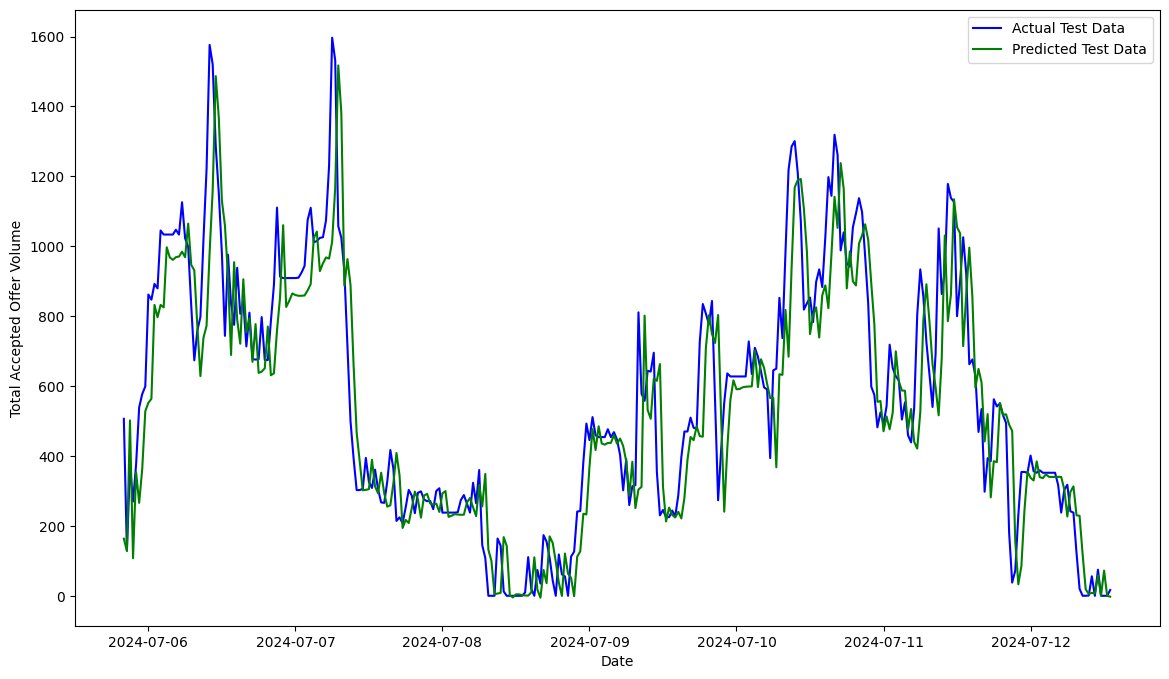
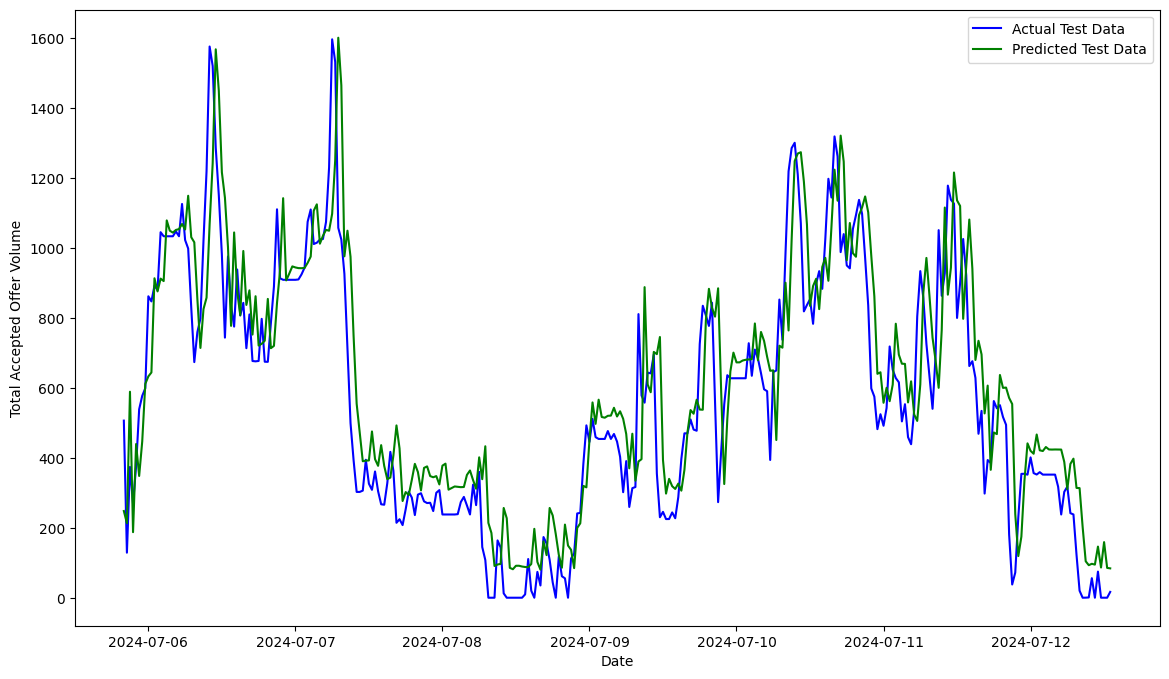
project and model improvements

diff --git a/ML/ImbalancePricing/src/models/LSTM_price.py b/ML/ImbalancePricing/src/models/LSTM_price.py
@@ -7,33 +7,6 @@ from tensorflow.keras.models import Sequential
 from tensorflow.keras.layers import LSTM, Dense, Dropout
 from sklearn.metrics import mean_squared_error, mean_absolute_error, r2_score
 
-train_1_df = pd.read_csv("ML\\ImbalancePricing\\data\\test\\test_1.csv")
-train_1_df['SettlementDate'] = pd.to_datetime(train_1_df['SettlementDate'])
-train_1_df['StartTime'] = pd.to_datetime(train_1_df['StartTime'])
-fig, axs = plt.subplots(3, 1, figsize=(15, 15), sharex=True)
-
-axs[0].plot(train_1_df['StartTime'], train_1_df['SystemSellPrice'], label='System Sell Price', color='red')
-axs[0].plot(train_1_df['StartTime'], train_1_df['SystemBuyPrice'], label='System Buy Price', color='blue')
-axs[0].set_title('System Sell and Buy Prices Over Time (Train 1)')
-axs[0].set_ylabel('£/MWh')
-axs[0].legend()
-
-axs[1].plot(train_1_df['StartTime'], train_1_df['NetImbalanceVolume'], label='Net Imbalance Volume', color='green')
-axs[1].set_title('Net Imbalance Volume Over Time (Train 1)')
-axs[1].set_ylabel('MWh')
-axs[1].legend()
-
-axs[2].plot(train_1_df['StartTime'], train_1_df['TotalAcceptedOfferVolume'], label='Total Accepted Offer Volume', color='purple')
-axs[2].plot(train_1_df['StartTime'], train_1_df['TotalAcceptedBidVolume'], label='Total Accepted Bid Volume', color='orange')
-axs[2].set_title('Total Accepted Offer and Bid Volumes Over Time (Train 1)')
-axs[2].set_ylabel('MWh')
-axs[2].legend()
-
-axs[2].set_xlabel('Time')
-
-plt.xticks(rotation=45)
-plt.show()
-
 def load_and_preprocess_data(file_path):
     data = pd.read_csv(file_path)
     data.fillna(method='ffill', inplace=True)

diff --git a/ML/ImbalancePricing/src/analysis/analysis.py b/ML/ImbalancePricing/src/analysis/analysis.py
@@ -1,0 +1,29 @@
+import pandas as pd
+import matplotlib.pyplot as plt
+
+train_1_df = pd.read_csv("ML\\ImbalancePricing\\data\\test\\test_1.csv")
+train_1_df['SettlementDate'] = pd.to_datetime(train_1_df['SettlementDate'])
+train_1_df['StartTime'] = pd.to_datetime(train_1_df['StartTime'])
+fig, axs = plt.subplots(3, 1, figsize=(15, 15), sharex=True)
+
+axs[0].plot(train_1_df['StartTime'], train_1_df['SystemSellPrice'], label='System Sell Price', color='red')
+axs[0].plot(train_1_df['StartTime'], train_1_df['SystemBuyPrice'], label='System Buy Price', color='blue')
+axs[0].set_title('System Sell and Buy Prices Over Time (Train 1)')
+axs[0].set_ylabel('£/MWh')
+axs[0].legend()
+
+axs[1].plot(train_1_df['StartTime'], train_1_df['NetImbalanceVolume'], label='Net Imbalance Volume', color='green')
+axs[1].set_title('Net Imbalance Volume Over Time (Train 1)')
+axs[1].set_ylabel('MWh')
+axs[1].legend()
+
+axs[2].plot(train_1_df['StartTime'], train_1_df['TotalAcceptedOfferVolume'], label='Total Accepted Offer Volume', color='purple')
+axs[2].plot(train_1_df['StartTime'], train_1_df['TotalAcceptedBidVolume'], label='Total Accepted Bid Volume', color='orange')
+axs[2].set_title('Total Accepted Offer and Bid Volumes Over Time (Train 1)')
+axs[2].set_ylabel('MWh')
+axs[2].legend()
+
+axs[2].set_xlabel('Time')
+
+plt.xticks(rotation=45)
+plt.show()

diff --git a/ML/ImbalancePricing/src/processing/processing.py b/ML/ImbalancePricing/src/processing/processing.py
@@ -1,0 +1,15 @@
+import pandas as pd
+
+train_test_files = [
+    'ML\\ImbalancePricing\\data\\train\\train_1.csv',
+    'ML\\ImbalancePricing\\data\\train\\train_2.csv',
+    'ML\\ImbalancePricing\\data\\train\\train_3.csv',
+    'ML\\ImbalancePricing\\data\\train\\train_4.csv',
+    'ML\\ImbalancePricing\\data\\train\\train_5.csv',
+    'ML\\ImbalancePricing\\data\\test\\test_1.csv'
+]
+
+test_1 = train_test_files[5]
+test_1_df = pd.read_csv(test_1)
+
+print(test_1_df.head())

diff --git a/ML/ImbalancePricing/src/models/LSTM_net_imbalance_volume.py b/ML/ImbalancePricing/src/models/LSTM_net_imbalance_volume.py
@@ -60,6 +60,7 @@ lstm_model.add(Dense(units=1))
 
 lstm_model.compile(optimizer='adam', loss='mean_squared_error')
 lstm_model.fit(X, y, batch_size=32, epochs=50)
+
 test_scaled_data = scaler.transform(test_niv_data)
 X_test, y_test = create_dataset(test_scaled_data, time_step)
 X_test = X_test.reshape(X_test.shape[0], X_test.shape[1], 1)

diff --git a/ML/ImbalancePricing/README.md b/ML/ImbalancePricing/README.md
@@ -6,7 +6,7 @@ The wholesale electricity market is set up so that supply should always meet dem
 
 #### Imbalance pricing analysis:<br><br>
 <img src="reports/figures/analysis.png" alt="price scatter" width="650"/><br><br>
-
+*Figure 1 - System buy and sell prices, Net Imbalance Volume & total accepted offer bid volumes over time.*<br><br>
 
 Above, are key important aspects of the data acquired on energy trading under energy balancing. The **buy/sell price** fluctuates based on market conditions (supply & demand), the **net imbalance volume determines** the frequency and magnitude at which the system experiences imbalance, and the **total accepted bid and offers volumes** reflect the amount of energy accepted for generation (offer volumes) or consumption reduction (bid volumes) by the market operator to optimally balance supply and demand, so offers (generation increases or demand decreases) increase, as bids (generation decreases or demand increases) decrease, which achieves balance.<br>
 For unlocking value from this data, certain strategic insights should be determined. A way to do this, could be through machine learning models to derive valuable insights based on acquired data through volume / price forecasting. A large benefit of this type of prediction / forecasting, helps to inform trading strategies, with:
@@ -22,46 +22,80 @@ For unlocking value from this data, certain strategic insights should be determi
     * Net Imbalance Volume (NIV)<br><br>
 
 ### Performance
-#### <u>System Buying / Selling Price</u>
-* With a MSE of 935.03, its relatively high, indicating model's predictions have significant errors, with RMSE being 30.58 it suggests the time-series data isnt being captured effectively 
-* A relatively low R2 Score of 0.183, indicates poor capture of the variability in the data and shows model is underfitting 
+#### System Buying / Selling Price
+* With a MSE of 889.65, its relatively high, indicating model's predictions have significant errors, with RMSE being 29.82 it suggests the time-series data isnt being captured effectively 
+* A relatively low R2 Score of 0.22, indicates poor capture of the variability in the data and shows model is underfitting 
 * Most points in predicted vs actual prices are not very close to the ideal $x = y$ line, supporting the idea of poor model performance
 <br><br>
 
 #### LSTM
 ##### Actual vs Prediction:
 <img src="reports/figures/price_scatter.png" alt="price scatter" width="470" height="400"/><br><br>
+*Figure 2 - Actual vs predicted prices scatter plot.*<br><br>
 
-#### <u>Total Accepted Offer Volume</u>
-* With an MSE of 27879.55, and RMSE of 166.97 it's also a poorly performing model that's off by a rather large magnitude
-* However, with an R2 score of 0.788, is a relatively high R2 score, indicating that the model fits the data reasonably well and captures most of the variability
+##### Scores:<br><br>
+```
+MSE: 889.6546507884278
+RMSE: 29.82707915281729
+MAE: 22.571276680650104
+R2 Score: 0.22286856315930337
+
+```
+<br><br>
+
+#### Total Accepted Offer Volume
+* With an MSE of 30139.02, and RMSE of 173.60 it's also a poorly performing model that's off by a rather large magnitude
+* However, with an R2 score of 0.77, is a relatively high R2 score, indicating that the model fits the data reasonably well and captures most of the variability
 * This varied performance in the model's evaluation is well reflected by the predicted vs. actual plot, with some values being concentrated close to the ideal line, but some concentrated away from it
 <br><br>
 
 #### LSTM
-##### Actual vs Prediction:
+##### Actual vs Prediction:<br><br>
 <img src="reports/figures/accepted_offer_volume_scatter.png" alt="accepted offer volume scatter" width="470" height="400"/><br><br>
+*Figure 3 - Actual vs predicted total accepted volume scatter plot.*<br><br>
 
+##### Scores:<br><br>
+```
+MSE: 30139.02781578129
+RMSE: 173.60595558845696
+MAE: 130.18930671051166
+R2 Score: 0.7708270743038639
 
-#### <u>Net Imbalance Volume</u>
-* An MSE of 45417.135 is even way more off than other models, and a large RMSE of 213.112, and an R2 Score of 0.211, this model shows an even more chaotic performance in prediction than the others
+```
+<br><br>
+
+#### Net Imbalance Volume
+* An MSE of 45953.82 is even way more off than other models, and a large RMSE of 214.36, and an R2 Score of 0.20, this model shows an even more chaotic performance in prediction than the others
 * The scatter-plot reflects this chaos as well
 <br><br>
 
 #### LSTM
 ##### Actual vs Prediction:
 <img src="reports/figures/niv_scatter.png" alt="heating load prediction" width="470" height="400"/><br><br>
+*Figure 4 - Actual vs predicted NIV scatter plot.*<br><br>
 
+##### Scores:<br><br>
+```
+MSE: 45953.82601143528
+RMSE: 214.36843520312237
+MAE: 167.89512390198354
+R2 Score: 0.20173916151965587
+
+```
+<br><br>
 
 ### Application
 ##### System buy / sell price model:<br><br>
 <img src="reports/figures/price_pred.png" alt="heating load prediction" width="650"/><br><br>
+*Figure 5 - Model system buy & sell price prediction on test_1 dataset.*<br><br>
 
 ##### Accepted offer volume:<br><br>
 <img src="reports/figures/accepted_offer_volume_pred.png" alt="heating load prediction" width="650"/><br><br>
+*Figure 6 - Model total accepted offer volume prediction on test_1 dataset.*<br><br>
 
 ##### Net imbalance volume:<br><br>
 <img src="reports/figures/niv_pred.png" alt="heating load prediction" width="650"/><br><br>
+*Figure 7 - Model NIV prediction on test_1 dataset.*<br><br>
 
 Each model had different evaluation performances, with the first (price) being reasonable, with worsening performance with each subsequent one (offer volume -> NIV), which may be explained by complexity of curves, as its much more difficult to predict a curve with a lot of varience than one with fewer, so that's likely the reason, but further analysis and model tuning will be necessary to see if this, or other factors are in effect here.<br><br>
 

diff --git a/ML/BuildingEnergyEfficiency/README.md b/ML/BuildingEnergyEfficiency/README.md
@@ -7,19 +7,20 @@ To address the problem of energy performance of buildings (EPB) due to growing c
 The computation of the heating load (HL) and the cooling load (CL) is required to determine the specifications of the heating and cooling equipment needed to maintain comfortable indoor air conditions, and in applying machine learning capabilities, this computational work can be done in a way that promotes data-driven insights into building design, and may produce value in increased building energy efficiency through reducing time and resources it may take to conduct necessary computations or simulations for determining better building efficiencies.<br><br>
 
 #### Thermal computation:<br><br>
-<img src="reports/figures/building_simulation_thermal_comfort.jpg" alt="building simulation thermal comfort" width="590"/><br>
-*Figure 1* - Illustration of heating & cooling computation via computational fluid dynamic simulation of building.<br><br>
+<img src="reports/figures/building_simulation_thermal_comfort.jpg" alt="building simulation thermal comfort" width="590"/><br><br>
+*Figure 1 - Illustration of heating & cooling computation via computational fluid dynamic simulation of building.*<br><br>
 
 So, using building heating and cooling data, the idea's to predict the heating and cooling needs of a building, to gauge means of improving efficiency.<br><br>
 
 #### Correlation heatmap:<br><br>
 <img src="reports/figures/correlation_heatmap.png" alt="correlation heatmap" width="550"/><br>
-*Figure 2* - Correlation heatmap of dateset variables.<br><br>
+*Figure 2 - Correlation heatmap of dateset variables.*<br><br>
 
 Highly correlated value are closest to 1, and are more red, and less correlated are more blue and closer to -1. This informs key aspects of model selection, including feature selection, where features having high correlation with heating and cooling load target variables, are good candidates to be included in the model as they are most likely to have a significant impact on prediction.<br><br>
 
 #### Boxplots:<br><br>
-<img src="reports/figures/boxplots.png" alt="boxplots" width="550"/><br><br>*Figure 3* - Boxplot of dateset variables.<br><br>
+<img src="reports/figures/boxplots.png" alt="boxplots" width="550"/><br><br>
+*Figure 3 - Boxplot of dateset variables.*<br><br>
 
 Variables such as overall height, orientation, glazing area and so on are very tightly compact and have small ranges, indicating low variance in their data, whereas surface area, wall area, and roof area have higher values and larger ranges, indicating a higher variance in the dataset. Linear regression models are sensitive to variance, so this plot helps to inform decisions in feature selection.<br><br>
 
@@ -36,10 +37,10 @@ Variables such as overall height, orientation, glazing area and so on are very t
 ### Classification
 #### Confusion matrices:
 <img src="reports/figures/heat_load_confusion_matrix.png" alt="heat load confusion matrix" width="600"/><br><br>
-*Figure 4* - Heating load classification confusion matrix.<br><br>
+*Figure 4 - Heating load classification confusion matrix.*<br><br>
 
 <img src="reports/figures/cooling_load_confusion_matrix.png" alt="cooling load confusion matrix" width="600"/><br><br>
-*Figure 5* - Cooling load classification confusion matrix.<br><br>
+*Figure 5 - Cooling load classification confusion matrix.*<br><br>
 
 
 #### Scores:<br><br>
@@ -78,10 +79,10 @@ Cooling Load Classification Accuracy: 96.75%
 ### Regression
 #### Actual vs Prediction:<br><br>
 <img src="reports/figures/heating_load_prediction.png" alt="heating load prediction" width="650" height="350"/><br><br>
-*Figure 5* - Actual vs predicted heating load plot.<br><br>
+*Figure 5 - Actual vs predicted heating load plot.*<br><br>
 
 <img src="reports/figures/cooling_load_prediction.png" alt="cooling load prediction" width="650" height="350"/><br><br>
-*Figure 6* - Actual vs predicted cooling load plot.<br><br>
+*Figure 6 - Actual vs predicted cooling load plot.*<br><br>
 
 #### Evaluation metrics:<br><br>
 ```

diff --git a/ML/GasTurbineConsumption/README.md b/ML/GasTurbineConsumption/README.md
@@ -6,17 +6,17 @@ Using data from an experiment done using a micro gas turbine, the idea's to pred
 
 #### Micro gas turbine:<br><br>
 <img src="reports/figures/micro_gas_turbine.jpg" alt="micro gas turbine" width="590"/><br><br>
-*Figure 1* - Micro gas turbine illustration.<br><br>
+*Figure 1 - Micro gas turbine illustration.*<br><br>
 
 Ideally more machinery or tooling can be more accurately simulated, to help inform decisions on their use, and drive business decisions. NVDIA seems to venture into simulation leveraging the power of machine learning as well (https://developer.nvidia.com/blog/develop-physics-informed-machine-learning-models-with-graph-neural-networks/), which personally I admire a lot and am trying to eventually get similar work done in the same area as well, starting with the applying ML to real-world systems and processes through my understanding of the field.<br><br>
 
 #### Input voltage vs time:<br><br>
 <img src="reports/figures/input_voltage_time.png" alt="micro gas turbine" width="590"/><br><br>
-*Figure 2* - Input voltage vs time plot.<br><br>
+*Figure 2 - Input voltage vs time plot.*<br><br>
 
 #### Electrical power vs time:<br><br>
 <img src="reports/figures/electrical_power_time.png" alt="micro gas turbine" width="590"/><br><br>
-*Figure 3* - Input voltage vs time plot.<br><br>
+*Figure 3 - Input voltage vs time plot.*<br><br>
 
 The paper the data's based on asserts that the relationship between input voltage and electrical power is not one-to-one, but rather time-dependent and dynamic, meaning that the electrical power output is influenced by the input voltage, but it also exhibits temporal dynamics such as transitions and stationary phases, leading to the difference in geometric profiles.<br>
 By analyzing these plots, one may determine a correlation between the input voltage and electrical power, or whether the relationship is more complex and involves time-dependent dynamics. However, the models developed will focus more on the power consumed by the turbine to attempt to accurately emulate its behavior.<br><br>
@@ -31,12 +31,12 @@ By analyzing these plots, one may determine a correlation between the input volt
 
 ### Regression
 #### Learning curve:
-<img src="reports/figures/learning_curves.png" alt="learning curves" width="550"/><br>
-*Figure 4* - Learning curve plot.<br><br>
+<img src="reports/figures/learning_curves.png" alt="learning curves" width="550"/><br><br>
+*Figure 4 - Learning curve plot.*<br><br>
 
 #### Error distribution:
-<img src="reports/figures/error_distribution.png" alt="error distribution" width="550"/><br>
-*Figure 5* - Prediction error distribution.<br><br>
+<img src="reports/figures/error_distribution.png" alt="error distribution" width="550"/><br><br>
+*Figure 5 - Prediction error distribution.*<br><br>
 
 ```
 Mean Squared Error: 236800.6401296233
@@ -49,12 +49,12 @@ R^2 Score: 0.647773511404588
 Using the test sets:<br>
 
 #### Prediction on set 1:
-<img src="reports/figures/power_consumption_prediction_1.png" alt="power consumption prediction 1" width="600"/><br>
-*Figure 6* - Predicted electrical power on test_1 dataset.<br><br>
+<img src="reports/figures/power_consumption_prediction_1.png" alt="power consumption prediction 1" width="600"/><br><br>
+*Figure 6 - Predicted electrical power on test_1 dataset.*<br><br>
 
 #### Prediction on set 2:
-<img src="reports/figures/power_consumption_prediction_2.png" alt="power consumption prediction 2" width="600"/><br>
-*Figure 7* - Predicted electrical power on test_2 dataset.<br><br>
+<img src="reports/figures/power_consumption_prediction_2.png" alt="power consumption prediction 2" width="600"/><br><br>
+*Figure 7 - Predicted electrical power on test_2 dataset.*<br><br>
 
 It does well for both test sets, as predicted consumption curve is close to measured curve using for both.<br><br>
 
